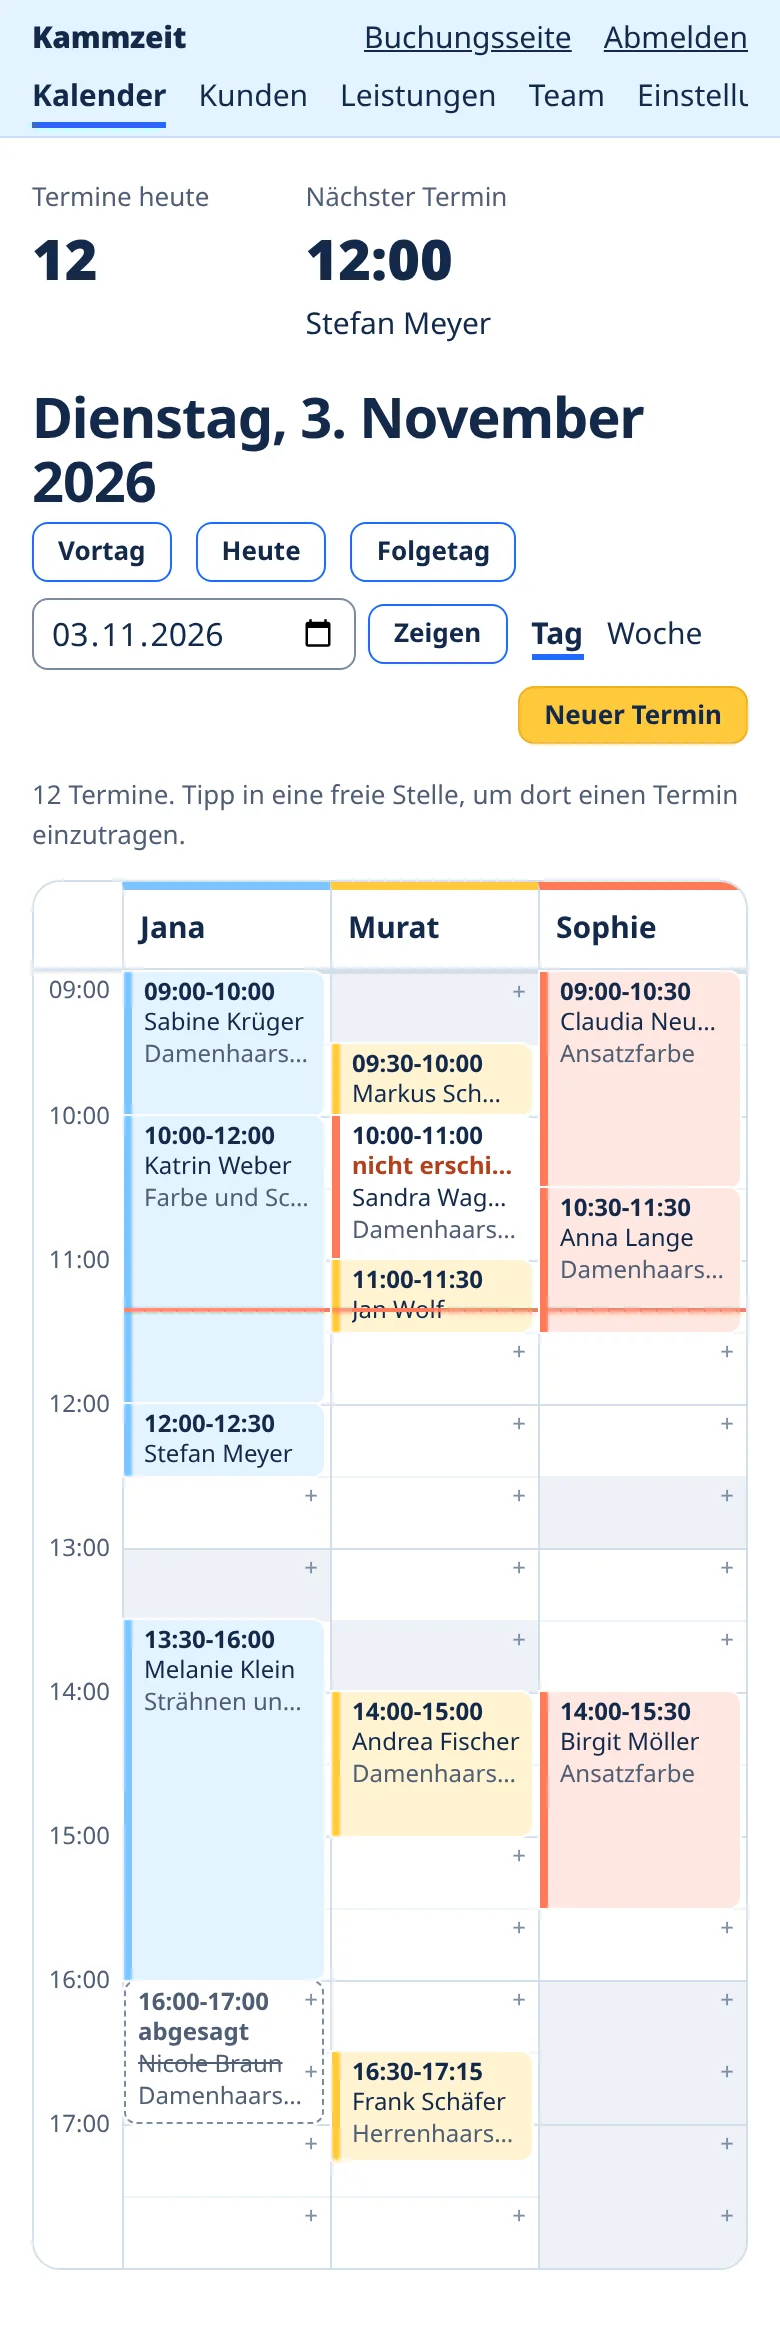
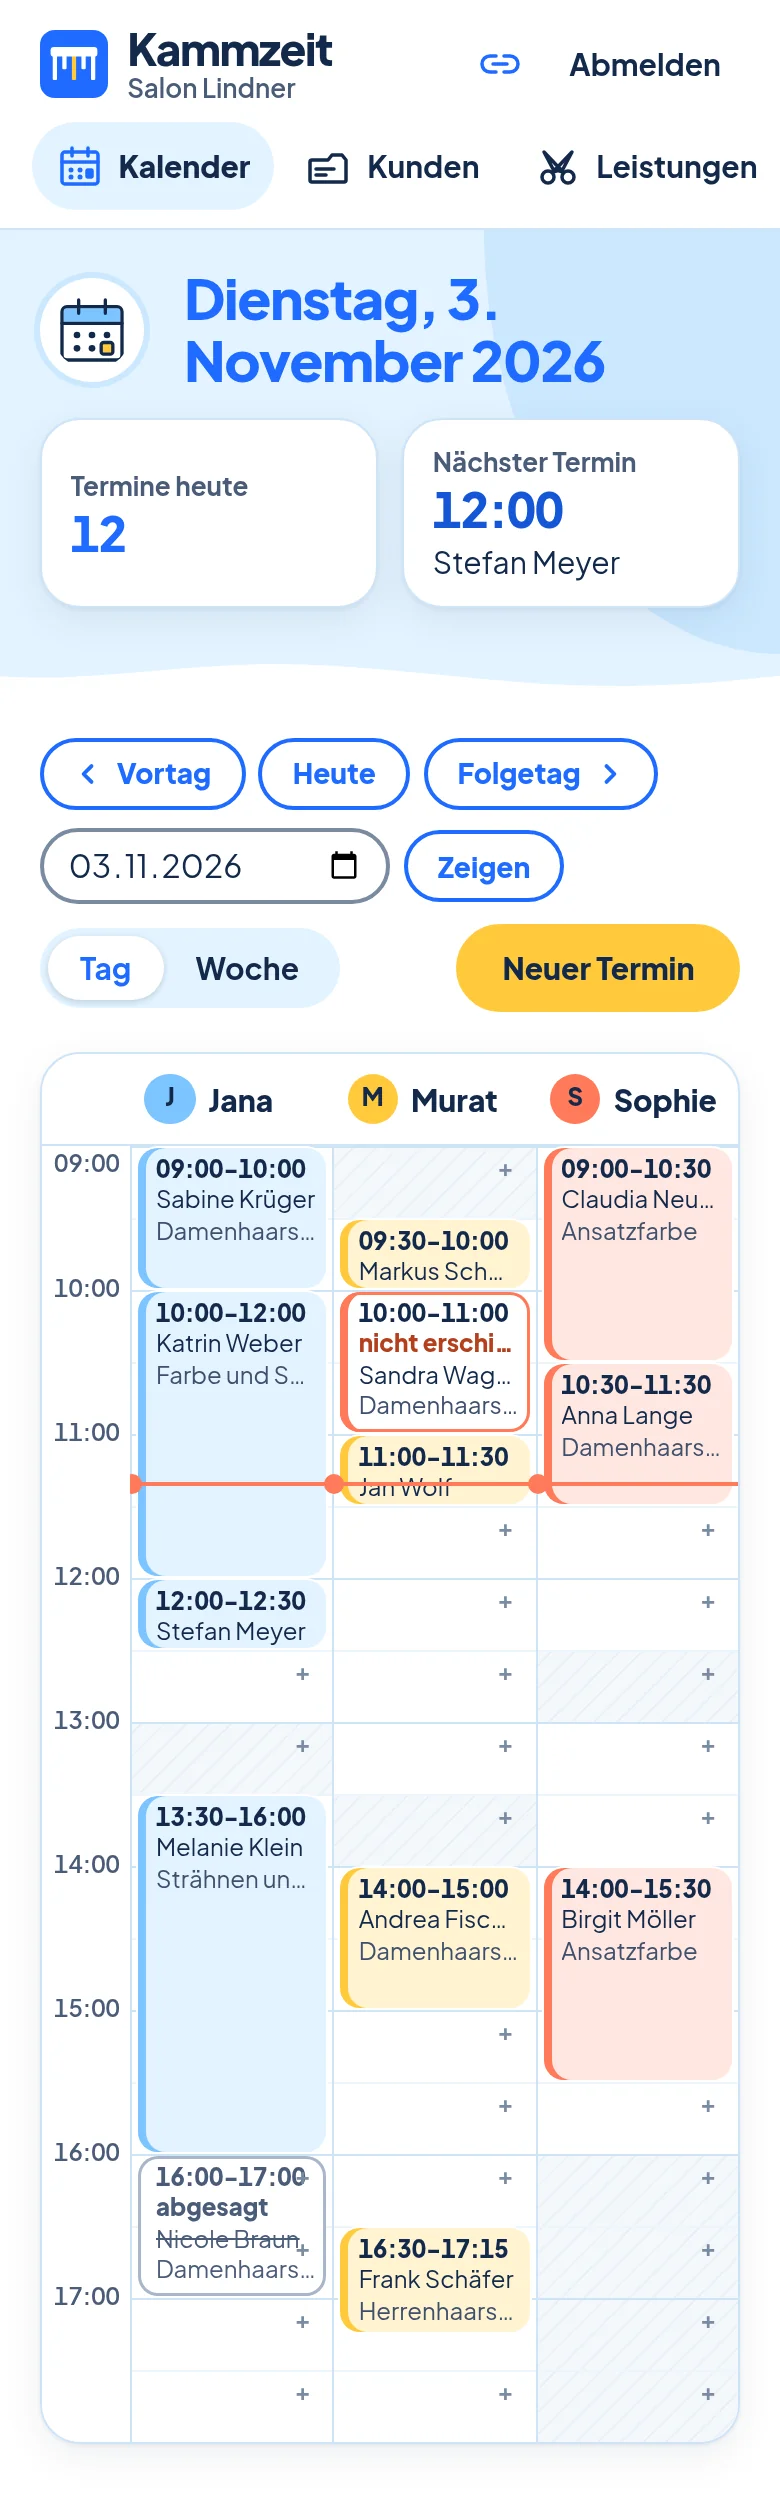
Website-Screenshots mit dem neuen Dashboard-Look neu erzeugt, Bildmaße in den Templates angepasst

diff --git a/web/site_hilfe.html b/web/site_hilfe.html
@@ -219,7 +219,7 @@
     <h2 id="reihenfolge">Reihenfolge</h2>
     <p>In der Liste unter <b class="ui">Leistungen</b> steht rechts die Spalte „Reihenfolge“ mit zwei Pfeilen. <b class="ui">&uarr;</b> schiebt eine Leistung nach oben, <b class="ui">&darr;</b> nach unten. In dieser Reihenfolge erscheinen die Leistungen auf deiner Buchungsseite. Die meistgebuchte Leistung gehört nach oben.</p>
     <figure class="figure">
-      <img class="shot" src="/static/img/shots/leistungen.webp" width="1280" height="748" alt="Liste der Leistungen im Dashboard mit Dauer, Preis, Status aktiv oder inaktiv und Pfeilen für die Reihenfolge" loading="lazy">
+      <img class="shot" src="/static/img/shots/leistungen.webp" width="1280" height="930" alt="Liste der Leistungen im Dashboard mit Dauer, Preis, Status aktiv oder inaktiv und Pfeilen für die Reihenfolge" loading="lazy">
       <figcaption>Die Liste unter Leistungen: Dauer, Preis, Status und rechts die Pfeile für die Reihenfolge.</figcaption>
     </figure>
 
@@ -282,7 +282,7 @@
     </div>
     <p>Die Zeiten gehen in 5-Minuten-Schritten. Kunden sehen nur Startzeiten, zu denen die gewählte Leistung ganz in einen Block passt. Eine Leistung mit 60 Minuten ist am Dienstag im Beispiel also von 9:00 bis 11:30 und von 13:30 bis 17:00 buchbar.</p>
     <figure class="figure">
-      <img class="shot" src="/static/img/shots/team.webp" width="1280" height="500" alt="Team im Dashboard: Mitarbeiter mit Arbeitszeiten je Wochentag in zwei Blöcken" loading="lazy">
+      <img class="shot" src="/static/img/shots/team.webp" width="1280" height="593" alt="Team im Dashboard: Mitarbeiter mit Arbeitszeiten je Wochentag in zwei Blöcken" loading="lazy">
       <figcaption>Unter Team stehen alle Mitarbeiter mit ihren Arbeitszeiten auf einen Blick.</figcaption>
     </figure>
 
@@ -336,7 +336,7 @@
       </table>
     </div>
     <figure class="figure">
-      <img class="shot" src="/static/img/shots/einstellungen-regeln.webp" width="1280" height="1064" alt="Abschnitt Buchungsregeln in den Einstellungen mit Zeitzone, Online buchbar frühestens, Online absagen und Im Voraus buchbar" loading="lazy">
+      <img class="shot" src="/static/img/shots/einstellungen-regeln.webp" width="597" height="590" alt="Abschnitt Buchungsregeln in den Einstellungen mit Zeitzone, Online buchbar frühestens, Online absagen und Im Voraus buchbar" loading="lazy">
       <figcaption>Der Abschnitt Buchungsregeln, hier mit 2 Stunden Vorlauf und Absage bis 1 Tag vorher.</figcaption>
     </figure>
 
@@ -446,7 +446,7 @@ Termin online buchen
     <p>Der <b class="ui">Kalender</b> ist die Startseite des Dashboards. Oben stehen „Termine heute“ und „Nächster Termin“. Darunter wählst du <b class="ui">Tag</b> oder <b class="ui">Woche</b>, blätterst mit <b class="ui">Vortag</b> und <b class="ui">Folgetag</b> (in der Woche: <b class="ui">Vorwoche</b>, <b class="ui">Folgewoche</b>), springst mit <b class="ui">Heute</b> zurück oder wählst ein Datum und <b class="ui">Zeigen</b>.</p>
     <p>In der Tagesansicht hat jeder Mitarbeiter eine Spalte. Weiß ist Arbeitszeit, grau ist frei oder Pause, die waagrechte Linie zeigt die aktuelle Uhrzeit. Abgesagte Termine sind gestrichelt umrandet und durchgestrichen.</p>
     <figure class="figure">
-      <img class="shot" src="/static/img/shots/kalender.webp" width="1280" height="1028" alt="Kalender im Dashboard, Tagesansicht mit einer Spalte je Mitarbeiter und mehreren Terminen" loading="lazy">
+      <img class="shot" src="/static/img/shots/kalender.webp" width="1280" height="1067" alt="Kalender im Dashboard, Tagesansicht mit einer Spalte je Mitarbeiter und mehreren Terminen" loading="lazy">
       <figcaption>Tagesansicht: eine Spalte je Mitarbeiter, Termine mit Uhrzeit, Kunde und Leistung.</figcaption>
     </figure>
 
@@ -510,7 +510,7 @@ Termin online buchen
       <li><b class="ui">Termin anlegen</b> oben öffnet ein neues Terminformular mit diesem Kunden.</li>
     </ul>
     <figure class="figure">
-      <img class="shot" src="/static/img/shots/kunde.webp" width="1280" height="1231" alt="Karteikarte eines Kunden mit Kontakt, Besuchen, Notizen und Terminen" loading="lazy">
+      <img class="shot" src="/static/img/shots/kunde.webp" width="1280" height="1470" alt="Karteikarte eines Kunden mit Kontakt, Besuchen, Notizen und Terminen" loading="lazy">
       <figcaption>Karteikarte mit Notiz zur Farbrezeptur und der Terminhistorie.</figcaption>
     </figure>
 

diff --git a/web/site_main.html b/web/site_main.html
@@ -63,7 +63,7 @@
             <li>Mail an dich bei jeder Online-Buchung und jeder Absage</li>
           </ul>
         </div>
-        <img class="shot" src="/static/img/shots/kalender.webp" width="1280" height="1028" alt="Tagesansicht im Kalender mit Terminen von drei Mitarbeitern, einer davon als nicht erschienen markiert" loading="lazy">
+        <img class="shot" src="/static/img/shots/kalender.webp" width="1280" height="1067" alt="Tagesansicht im Kalender mit Terminen von drei Mitarbeitern, einer davon als nicht erschienen markiert" loading="lazy">
       </div>
       <div class="split split-rev fn-row">
         <div>
@@ -75,7 +75,7 @@
             <li>Die ganze Kartei als CSV exportieren</li>
           </ul>
         </div>
-        <img class="shot" src="/static/img/shots/kunde.webp" width="1280" height="1231" alt="Karteikarte einer Kundin mit Notizen und Terminhistorie" loading="lazy">
+        <img class="shot" src="/static/img/shots/kunde.webp" width="1280" height="1470" alt="Karteikarte einer Kundin mit Notizen und Terminhistorie" loading="lazy">
       </div>
       <div class="split fn-row">
         <div>
@@ -87,7 +87,7 @@
             <li>Im Gratis-Plan ein Mitarbeiter, mit Pro unbegrenzt viele</li>
           </ul>
         </div>
-        <img class="shot" src="/static/img/shots/team.webp" width="1280" height="500" alt="Teamübersicht mit Mitarbeitern und ihren Arbeitszeiten" loading="lazy">
+        <img class="shot" src="/static/img/shots/team.webp" width="1280" height="593" alt="Teamübersicht mit Mitarbeitern und ihren Arbeitszeiten" loading="lazy">
       </div>
       <div class="split split-rev fn-row">
         <div>
@@ -98,7 +98,7 @@
             <li>Buchungshorizont: wie weit im Voraus gebucht werden kann</li>
           </ul>
         </div>
-        <img class="shot" src="/static/img/shots/einstellungen-regeln.webp" width="1280" height="1064" alt="Einstellungen für Mindestvorlauf, Absagefrist und Buchungshorizont" loading="lazy">
+        <img class="shot" src="/static/img/shots/einstellungen-regeln.webp" width="597" height="590" alt="Einstellungen für Mindestvorlauf, Absagefrist und Buchungshorizont" loading="lazy">
       </div>
     </div>
   </div>

diff --git a/web/landing.html b/web/landing.html
@@ -112,7 +112,7 @@
       <li><img class="icon-lg" src="/static/img/icons/kalender.svg" width="48" height="48" alt=""><h3>Regeln, die du festlegst</h3><p>Wie kurzfristig gebucht und bis wann abgesagt werden darf, und wie weit im Voraus.</p></li>
     </ul>
     <figure class="figure landing-shot">
-      <img class="shot" src="/static/img/shots/kalender.webp" width="1280" height="1028" alt="Kalender im Kammzeit-Dashboard: Tagesansicht mit den Terminen von drei Mitarbeitern" loading="lazy">
+      <img class="shot" src="/static/img/shots/kalender.webp" width="1280" height="1067" alt="Kalender im Kammzeit-Dashboard: Tagesansicht mit den Terminen von drei Mitarbeitern" loading="lazy">
       <figcaption>So sieht der Kalender im Dashboard aus.</figcaption>
     </figure>
     <p class="landing-more"><a class="link-more" href="/funktionen">Alle Funktionen ansehen</a></p>
